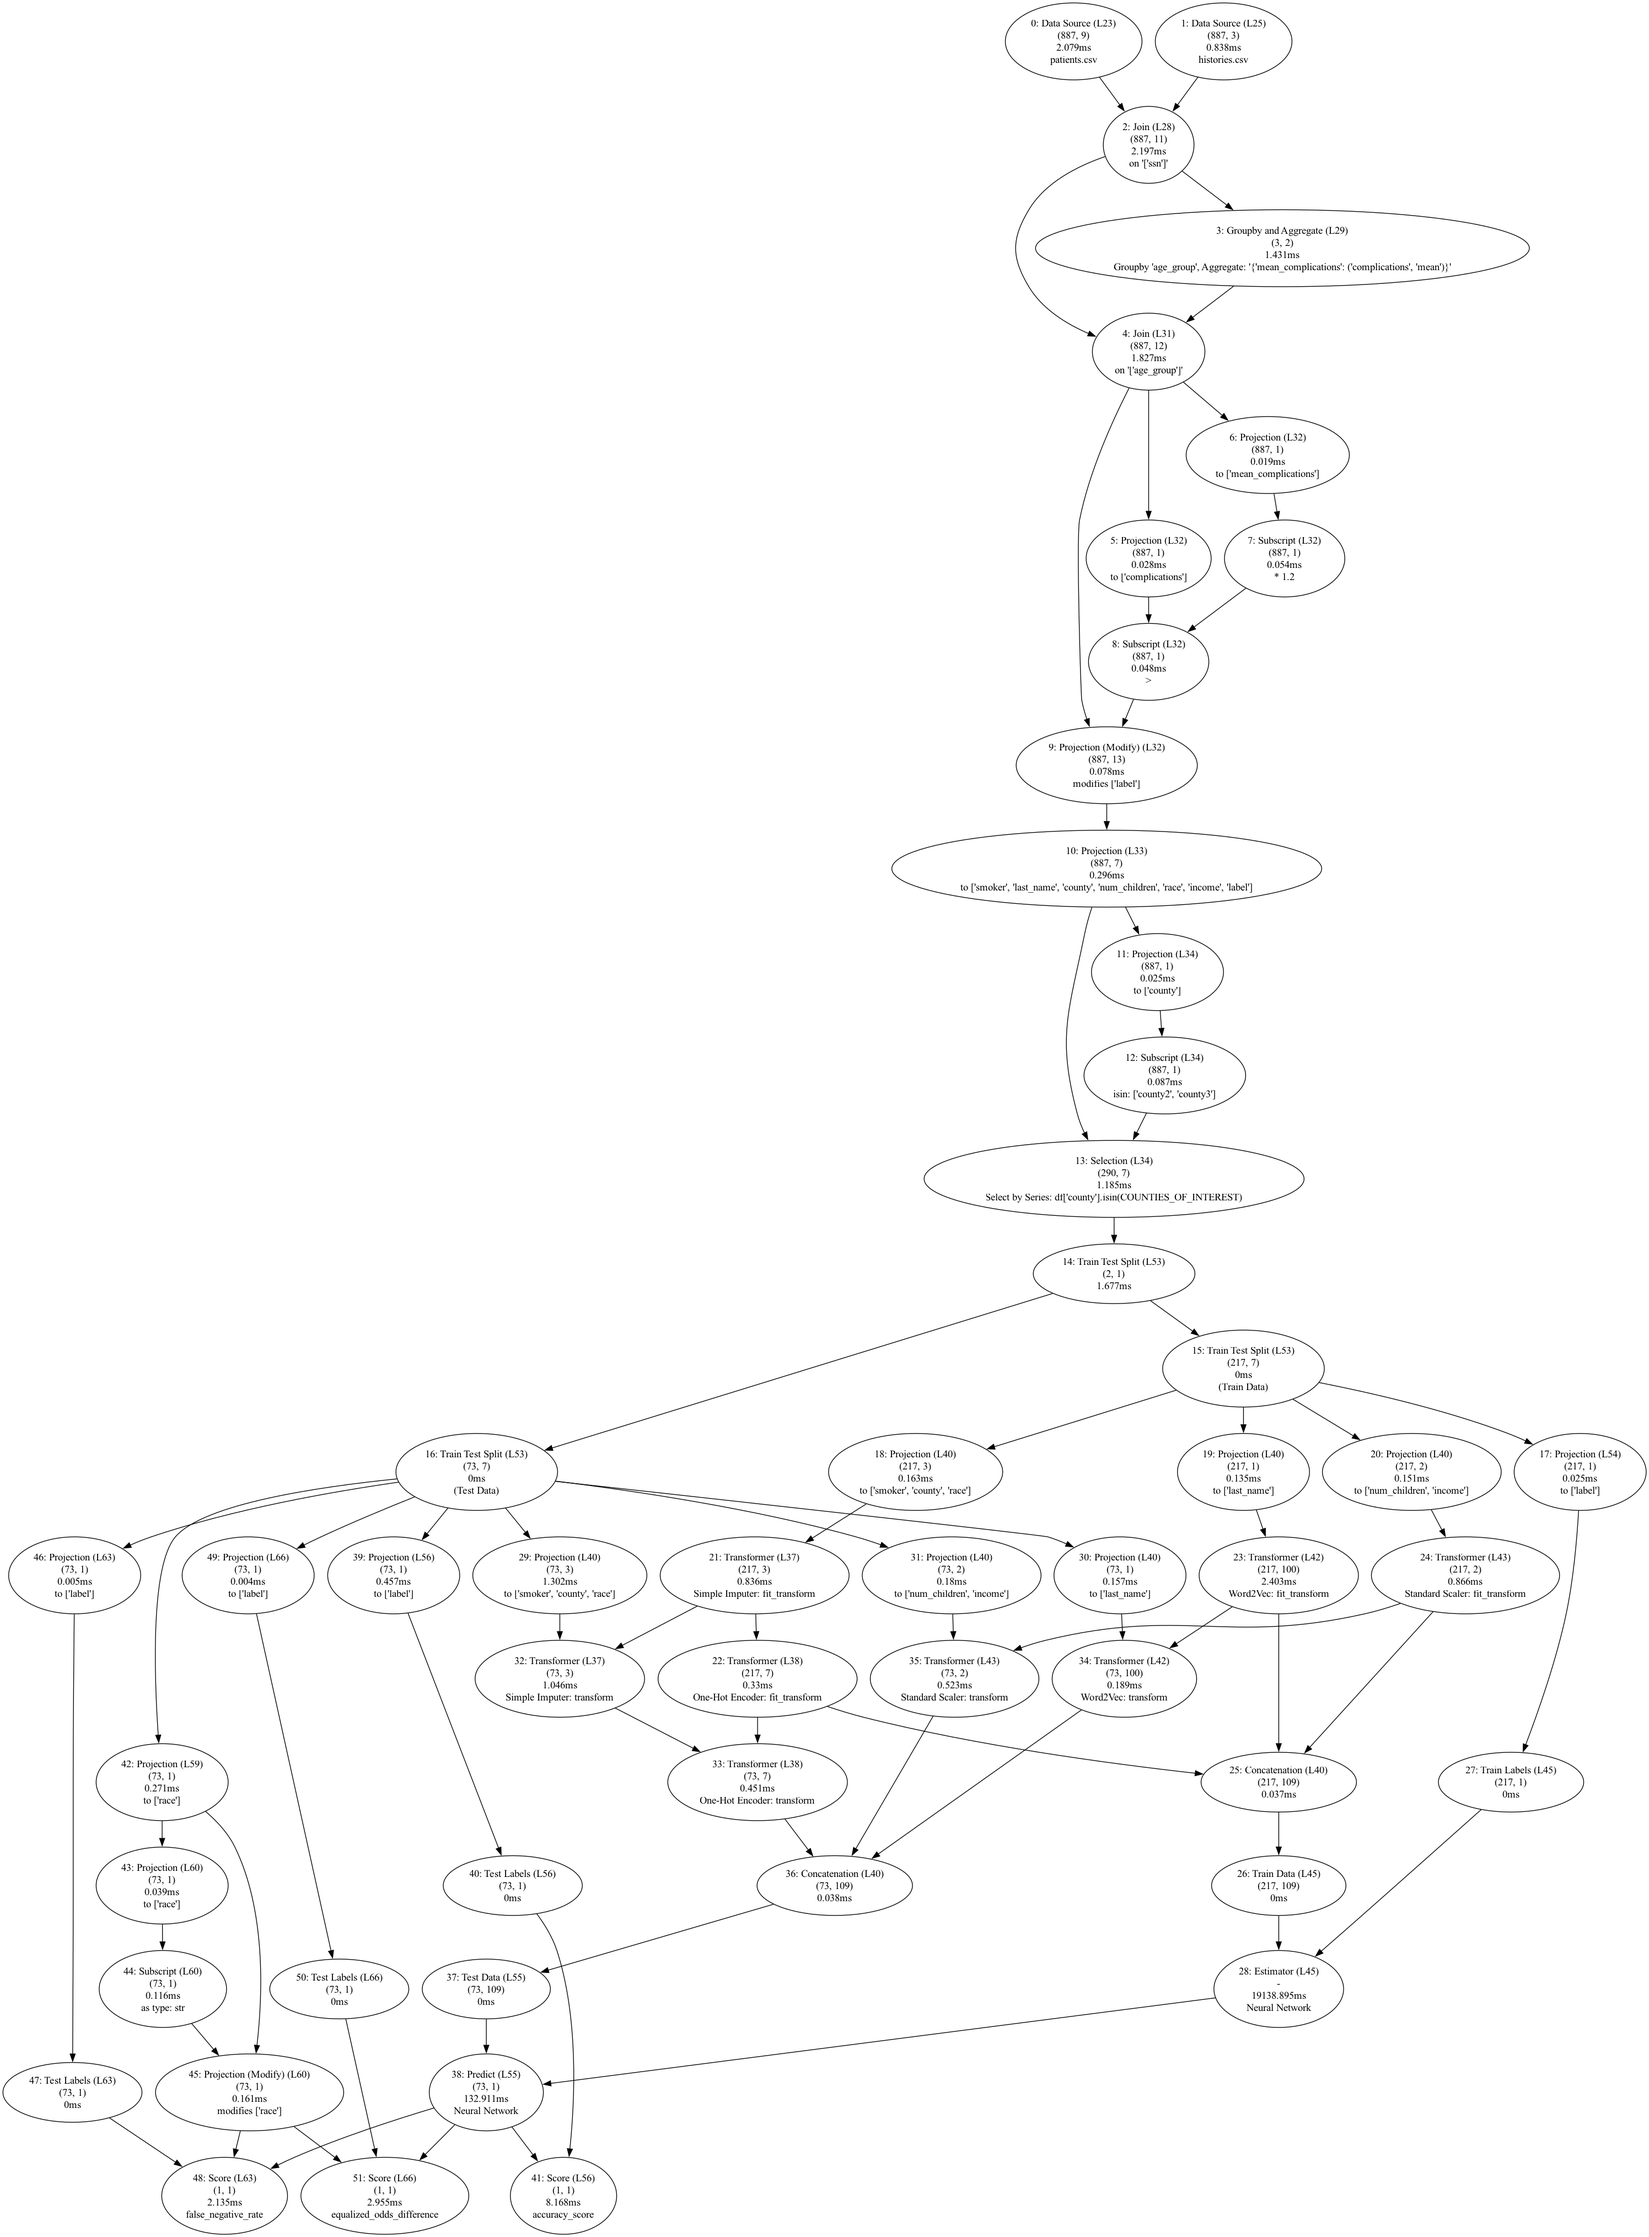
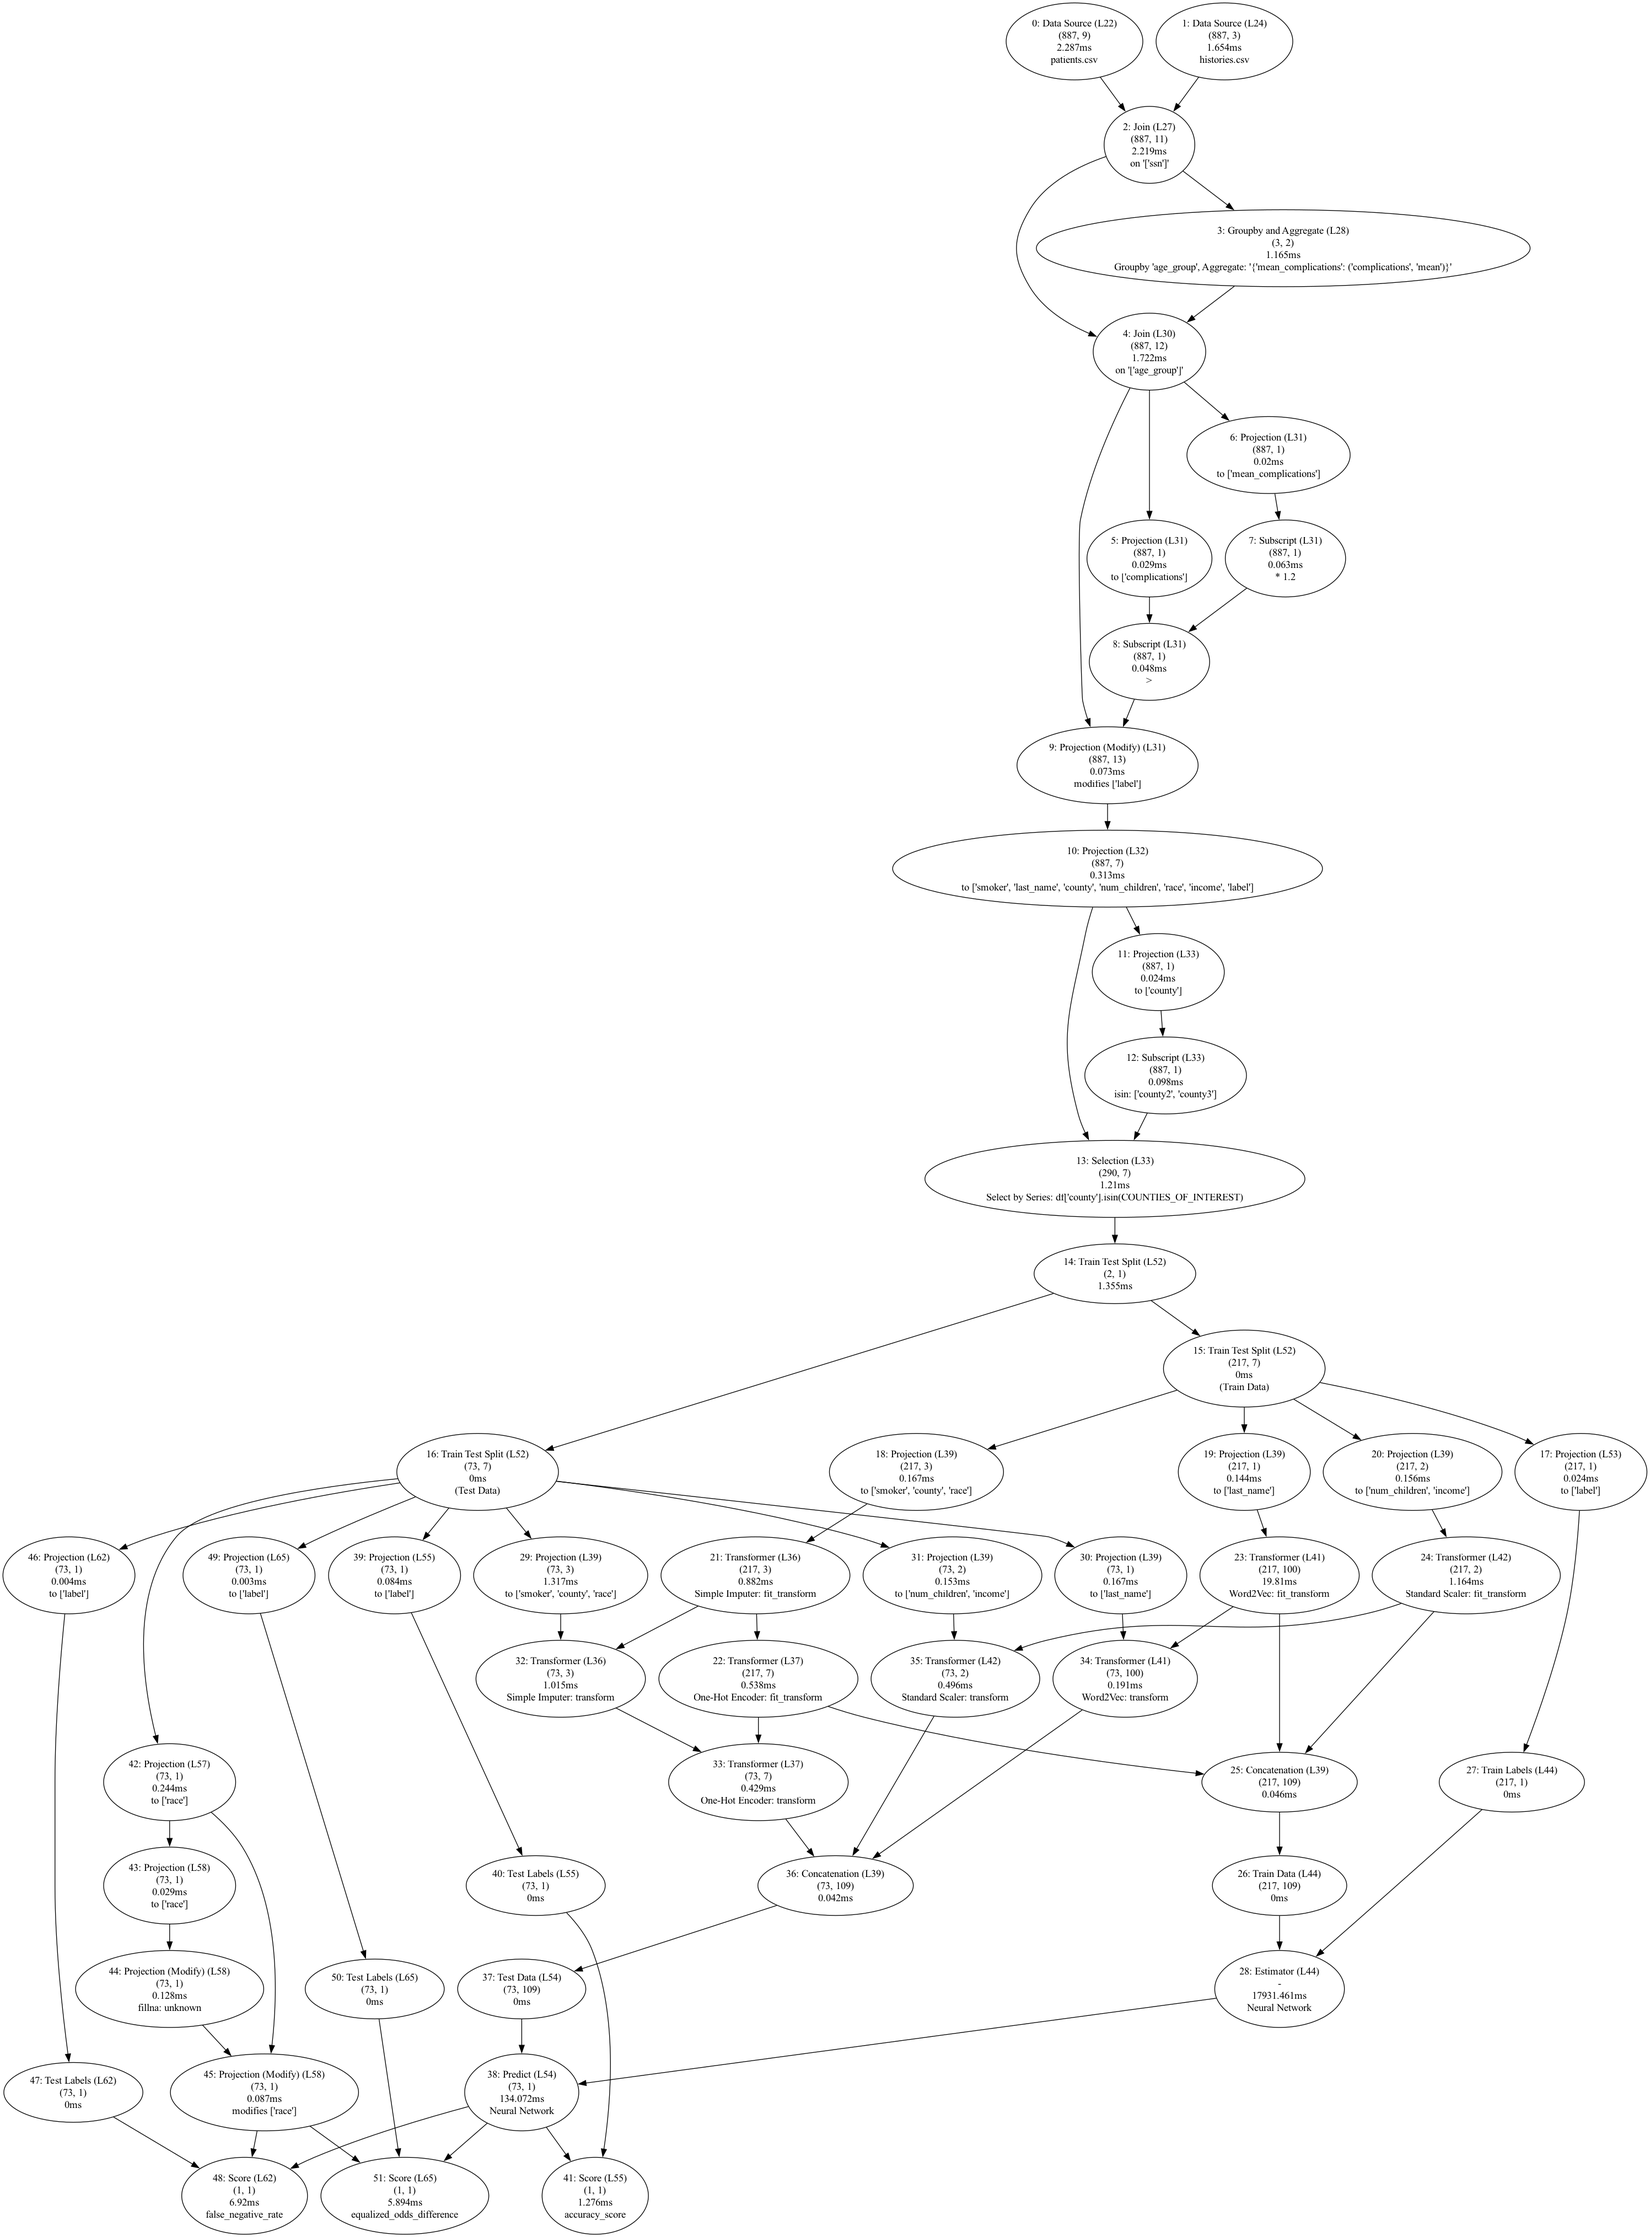
Continuing to debug remote issue

diff --git a/example_pipelines/healthcare/healthcare.py b/example_pipelines/healthcare/healthcare.py
@@ -55,7 +55,10 @@ test_predictions = model.predict(test_data)
 print(f"Mean accuracy: {accuracy_score(test_data['label'], test_predictions)}")
 
 sensitive_features = test_data[['race']]
-sensitive_features['race'] = sensitive_features['race'].astype(str)
+sensitive_features['race'] = sensitive_features['race'].fillna("unknown")
+assert pd.isna(test_predictions).sum() == 0
+assert pd.isna(sensitive_features.values[:, 0]).sum() == 0
+assert pd.isna(test_data.values[:, 6]).sum() == 0
 fnr_by_group = MetricFrame(metrics=false_negative_rate, y_pred=test_predictions, y_true=test_data['label'],
                            sensitive_features=sensitive_features)
 print(f"False-negative by group: {fnr_by_group.by_group}")
